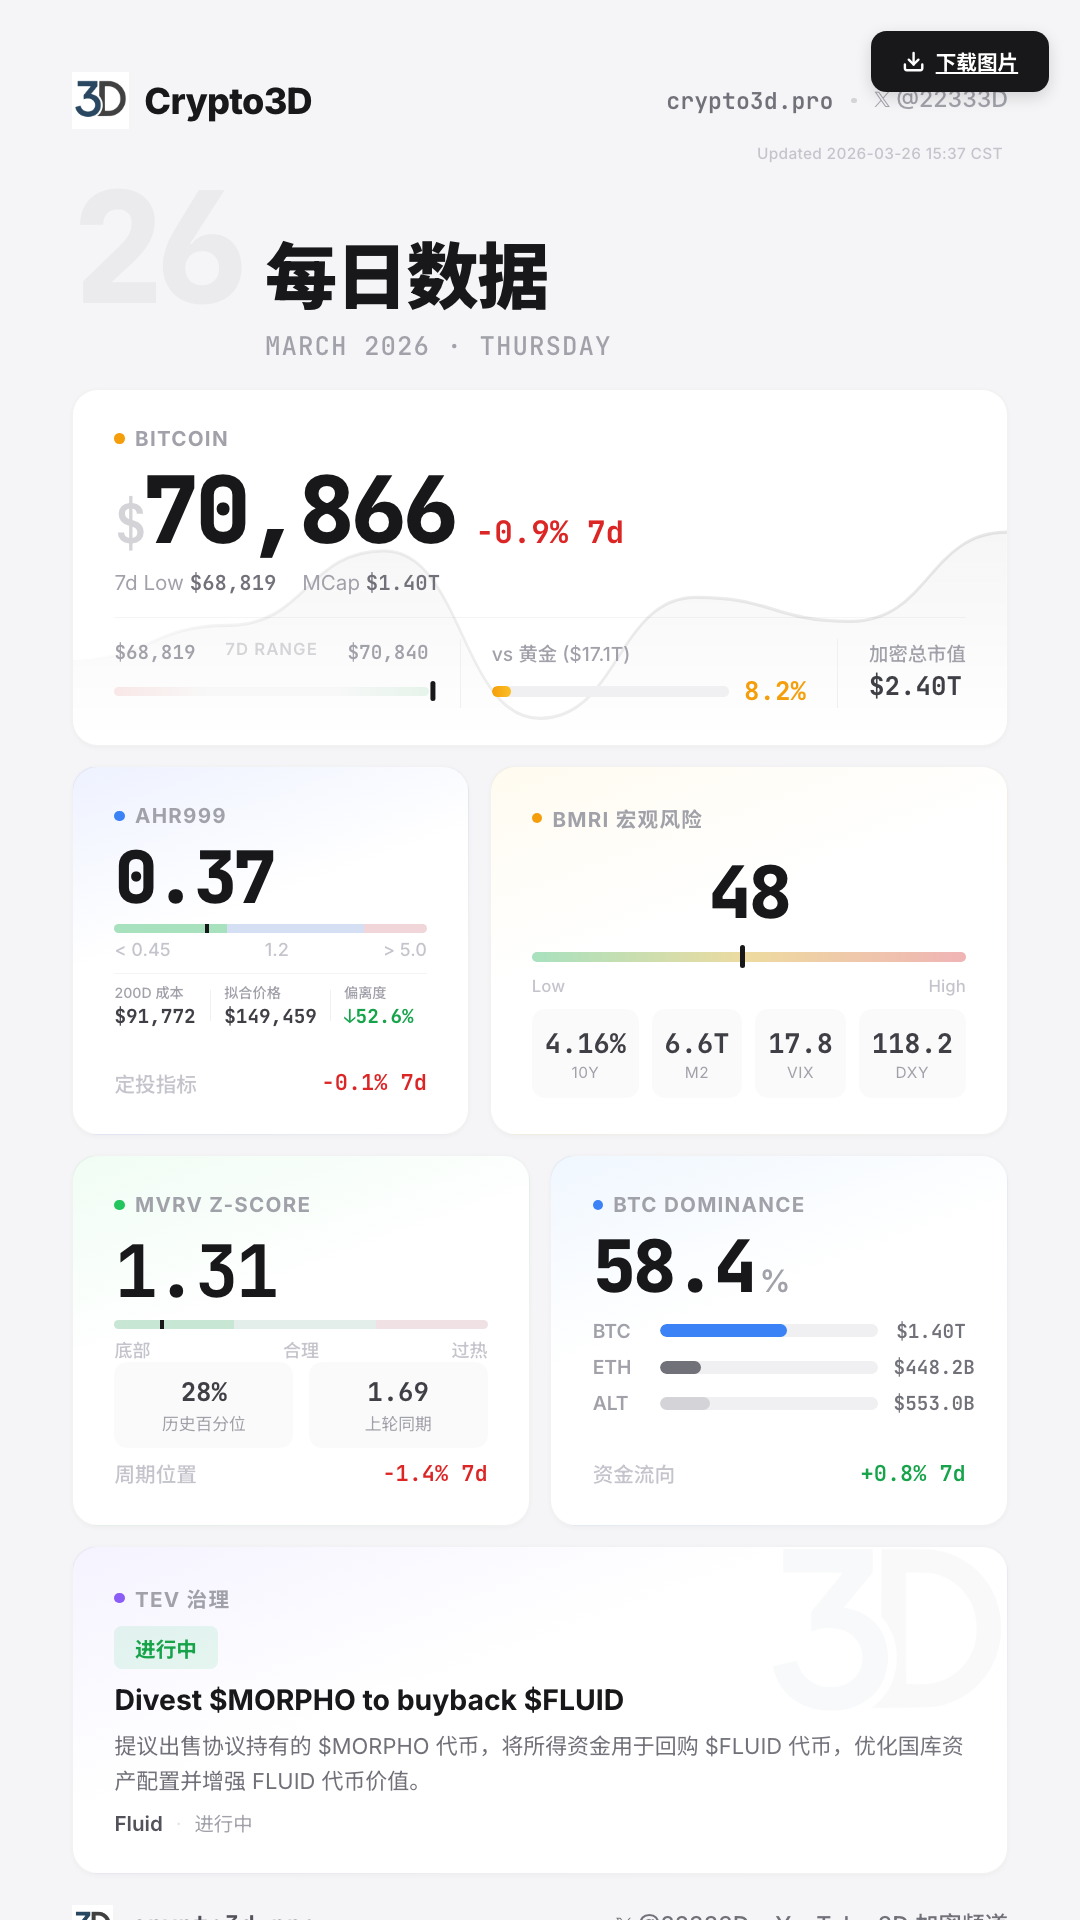
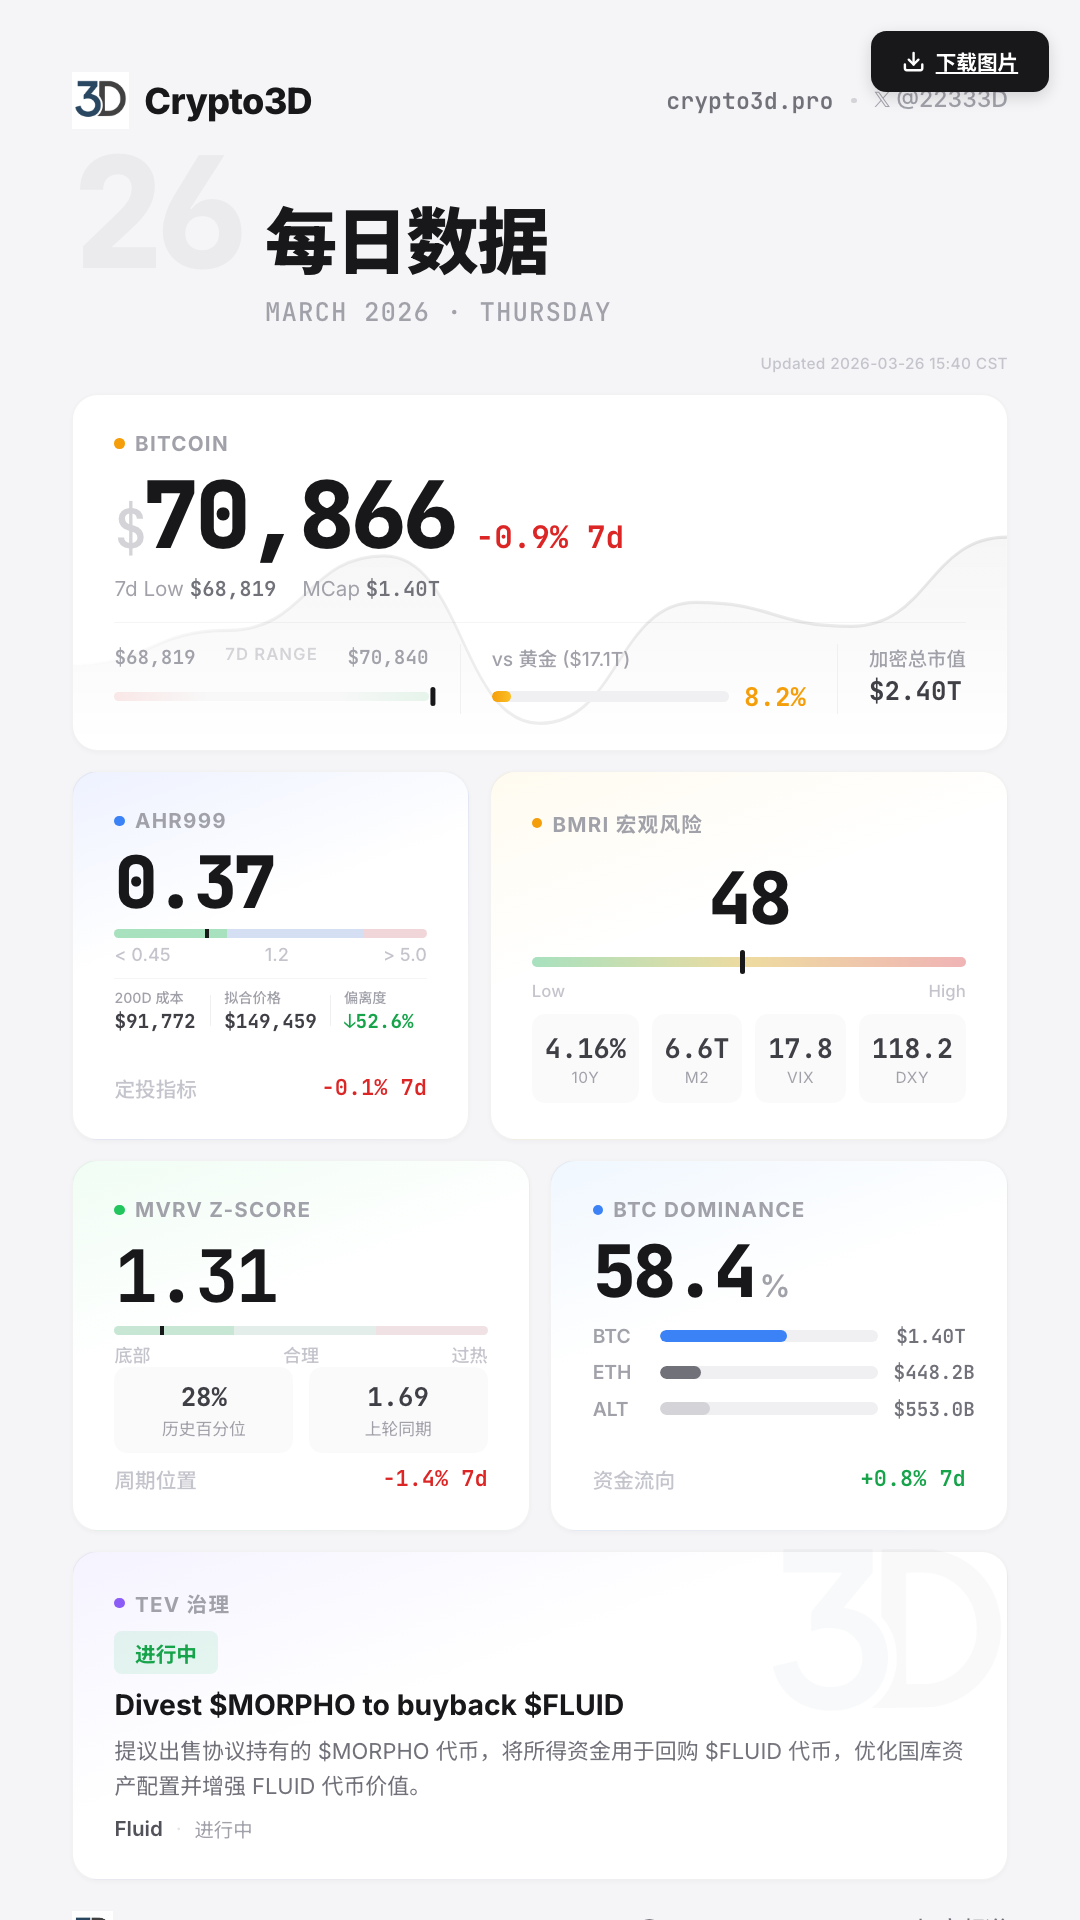
fix: move timestamp between title and BTC card

diff --git a/daily-poster/output/2026-03-26.html b/daily-poster/output/2026-03-26.html
@@ -321,7 +321,6 @@ body {
       <span class="header-social">𝕏 @22333D</span>
     </div>
   </div>
-  <div style="text-align:right;font-size:12px;font-weight:500;color:#c4c4cc;letter-spacing:0.02em;margin-top:-4px;padding:0 4px;">Updated 2026-03-26 15:37 CST</div>
 
   <!-- TITLE -->
   <div class="title-section">
@@ -331,6 +330,8 @@ body {
       <div class="date-line">MARCH 2026 · THURSDAY</div>
     </div>
   </div>
+
+  <div style="text-align:right;font-size:12px;font-weight:500;color:#c4c4cc;letter-spacing:0.02em;">Updated 2026-03-26 15:40 CST</div>
 
   <!-- BTC (full width) -->
   <div class="card card-btc">

diff --git a/daily-poster/gen-daily.py b/daily-poster/gen-daily.py
@@ -233,11 +233,10 @@ def render_html(data):
     # === Logo: relative path from output/ subdir to parent ===
     html = html.replace('src="logo-3d.jpg"', 'src="../logo-3d.jpg"')
 
-    # === Update timestamp — top right, next to header ===
+    # === Update timestamp — between date line and BTC card ===
     ts_str = now.strftime("%Y-%m-%d %H:%M CST")
-    ts_html = f'<div style="text-align:right;font-size:12px;font-weight:500;color:#c4c4cc;letter-spacing:0.02em;margin-top:-4px;padding:0 4px;">Updated {ts_str}</div>'
-    # Insert right after the header div
-    html = html.replace('</div>\n\n  <!-- TITLE -->', f'</div>\n  {ts_html}\n\n  <!-- TITLE -->')
+    ts_html = f'<div style="text-align:right;font-size:12px;font-weight:500;color:#c4c4cc;letter-spacing:0.02em;">Updated {ts_str}</div>'
+    html = html.replace('<!-- BTC (full width)', f'{ts_html}\n\n  <!-- BTC (full width)')
 
     # --- Date ---
     day_num = str(now.day)
